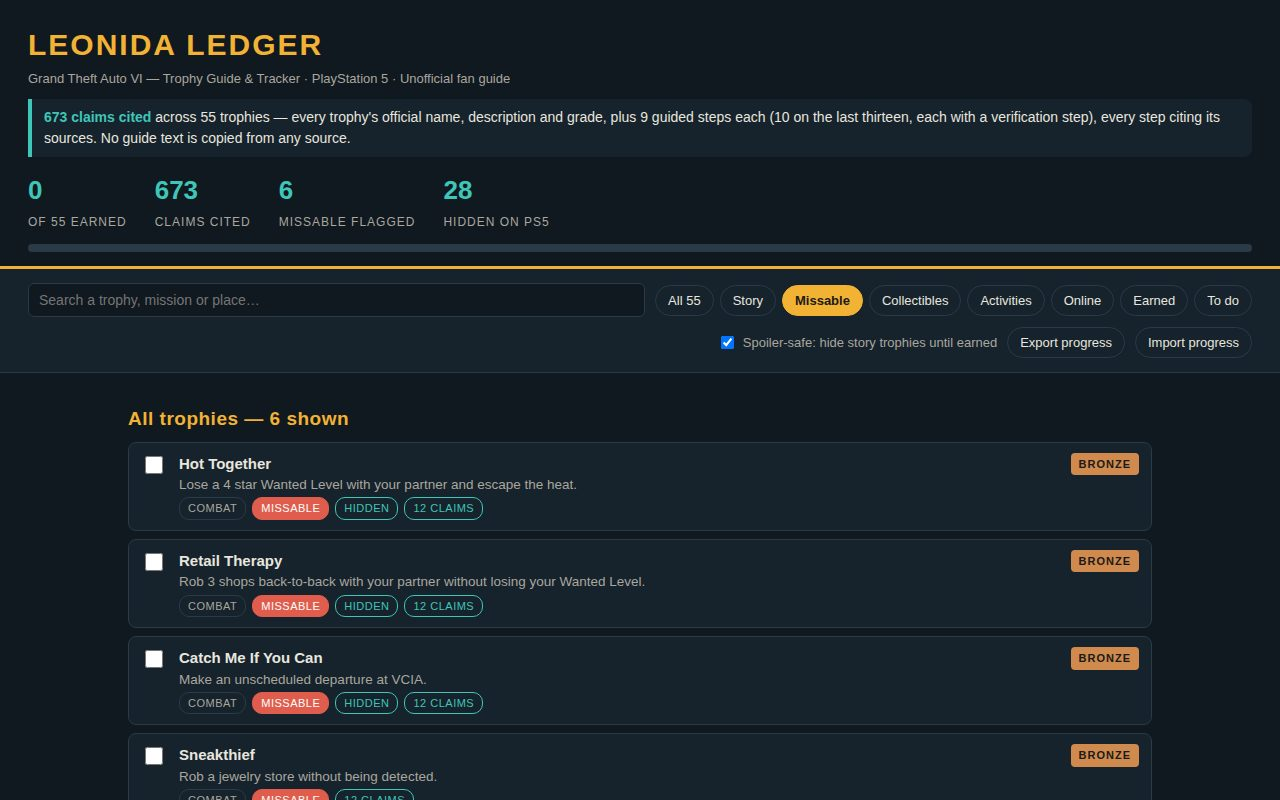
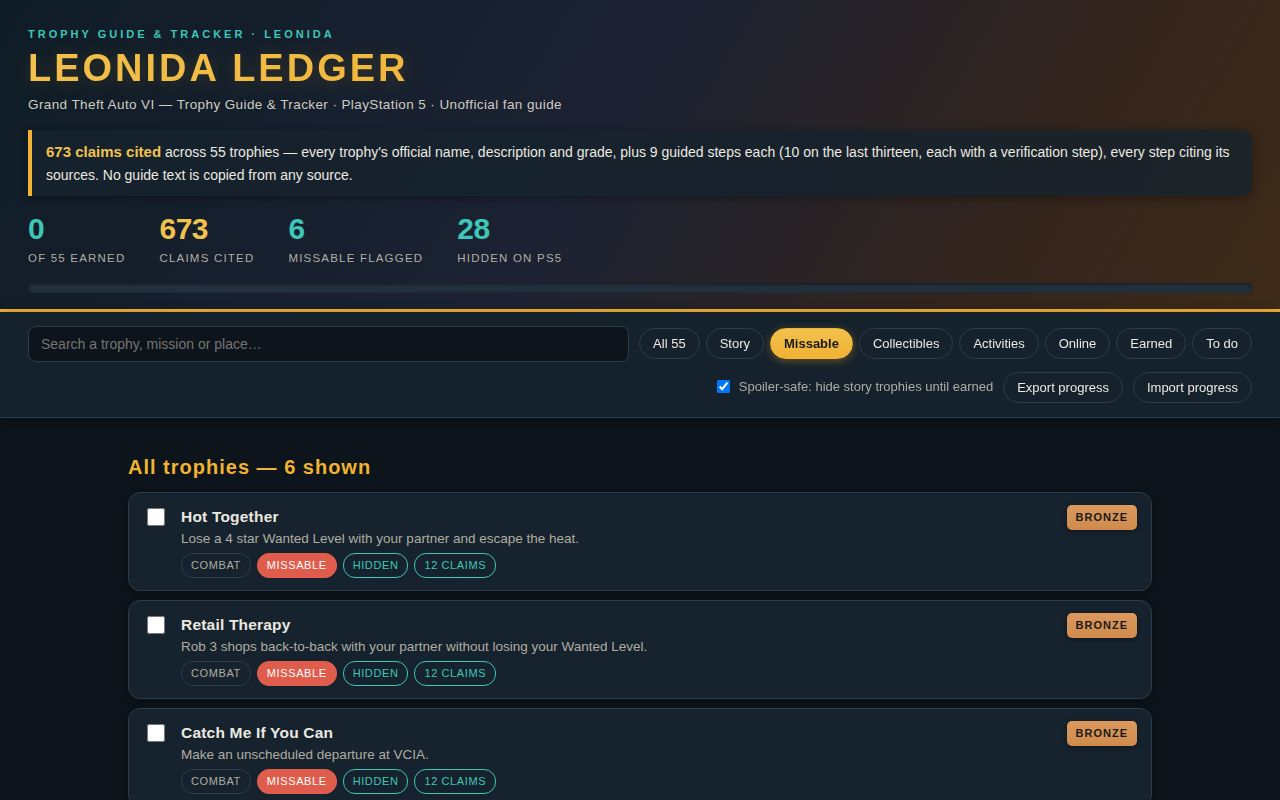
Revision 4: polished Vice City sunset design (content unchanged, 673 claims)

diff --git a/app/style.css b/app/style.css
@@ -1,16 +1,27 @@
+/* Leonida Ledger — Revision 4: polished Vice City sunset design.
+   Same content, same structure — the look only. Dark slate base, warm
+   amber/gold sunset accents, teal for claims, distinct grade colours. */
 :root {
-  --ink: #e8e6df;
-  --ink-dim: #a9a79e;
-  --paper: #101820;
-  --card: #16222c;
-  --line: #2a3a46;
+  --ink: #ece9e0;
+  --ink-dim: #b0ada2;
+  --ink-faint: #8a877e;
+  --paper: #0d141b;
+  --paper-2: #111b24;
+  --card: #16222d;
+  --card-2: #1a2836;
+  --line: #2c3d4b;
+  --line-soft: #22303d;
   --amber: #f2b234;
+  --gold: #f2c14e;
+  --rose: #e07856;
   --teal: #3ec6b8;
   --red: #e05d4d;
-  --plat: #d8d8e0;
-  --gold: #f2c14e;
-  --silver: #c9ced6;
+  --plat: #e8e8f0;
+  --plat-2: #c6c6d4;
+  --silver: #ccd1da;
   --bronze: #d08a4e;
+  --shadow: 0 2px 10px rgba(0, 0, 0, .35);
+  --shadow-lift: 0 6px 18px rgba(0, 0, 0, .45);
 }
 * { box-sizing: border-box; }
 body {
@@ -19,77 +30,136 @@ body {
   color: var(--ink);
   font-family: -apple-system, "Segoe UI", Roboto, "Helvetica Neue", Arial, sans-serif;
   font-size: 15px;
-  line-height: 1.5;
+  line-height: 1.55;
 }
-.top { padding: 22px 28px 14px; border-bottom: 3px solid var(--amber); }
-.brand h1 { margin: 0; font-size: 30px; letter-spacing: 2px; color: var(--amber); }
-.brand .sub { margin: 2px 0 0; color: var(--ink-dim); font-size: 13px; }
-.claimline { margin: 10px 0 0; font-size: 14px; color: var(--ink); background: var(--card); border-left: 4px solid var(--teal); border-radius: 0 8px 8px 0; padding: 8px 12px; }
-.claimline strong { color: var(--teal); }
-.stats { display: flex; gap: 28px; margin-top: 14px; flex-wrap: wrap; }
-.stat .num { display: block; font-size: 26px; font-weight: 700; color: var(--teal); }
-.stat .lbl { font-size: 12px; color: var(--ink-dim); text-transform: uppercase; letter-spacing: 1px; }
-.progress { height: 8px; background: var(--line); border-radius: 4px; margin-top: 12px; overflow: hidden; }
-.progress .bar { height: 100%; background: var(--amber); border-radius: 4px; transition: width .3s; }
-.controls { display: flex; flex-wrap: wrap; gap: 10px; align-items: center; padding: 14px 28px; background: var(--card); border-bottom: 1px solid var(--line); position: sticky; top: 0; z-index: 5; }
-#search { flex: 1 1 220px; padding: 8px 10px; border: 1px solid var(--line); border-radius: 6px; background: var(--paper); color: var(--ink); font-size: 14px; }
+/* Hero: dusk-to-sunset gradient — deep slate into plum and ember — with a
+   warm amber rule underneath, so the header reads as one sunset band. */
+.top {
+  padding: 26px 28px 16px;
+  background: linear-gradient(120deg, #0f1c26 0%, #1c2233 46%, #33241d 78%, #3d2a18 100%);
+  border-bottom: 3px solid var(--amber);
+  box-shadow: 0 4px 18px rgba(0, 0, 0, .4);
+}
+.eyebrow {
+  margin: 0 0 6px;
+  font-size: 11px;
+  font-weight: 700;
+  letter-spacing: 3px;
+  text-transform: uppercase;
+  color: var(--teal);
+}
+.brand h1 {
+  margin: 0;
+  font-size: 38px;
+  line-height: 1.05;
+  letter-spacing: 3px;
+  font-weight: 800;
+  background: linear-gradient(90deg, var(--gold) 0%, var(--amber) 55%, var(--rose) 100%);
+  -webkit-background-clip: text;
+  background-clip: text;
+  color: transparent;
+  text-shadow: 0 2px 18px rgba(242, 178, 52, .18);
+}
+.brand .sub { margin: 6px 0 0; color: #cfccc2; font-size: 13.5px; letter-spacing: .4px; }
+.claimline {
+  margin: 14px 0 0;
+  font-size: 14px;
+  line-height: 1.6;
+  color: var(--ink);
+  background: rgba(22, 34, 45, .82);
+  border-left: 4px solid var(--amber);
+  border-radius: 0 10px 10px 0;
+  padding: 10px 14px;
+  box-shadow: var(--shadow);
+}
+.claimline strong { color: var(--gold); font-size: 15px; }
+.stats { display: flex; gap: 34px; margin-top: 16px; flex-wrap: wrap; }
+.stat .num { display: block; font-size: 30px; font-weight: 800; line-height: 1.1; color: var(--teal); letter-spacing: -.5px; }
+.stat .num.claims { color: var(--gold); }
+.stat .lbl { font-size: 11.5px; color: var(--ink-dim); text-transform: uppercase; letter-spacing: 1.2px; }
+.progress { height: 10px; background: #22303d; border-radius: 6px; margin-top: 14px; overflow: hidden; box-shadow: inset 0 1px 3px rgba(0, 0, 0, .5); }
+.progress .bar { height: 100%; background: linear-gradient(90deg, var(--amber), var(--gold)); border-radius: 6px; transition: width .3s; box-shadow: 0 0 10px rgba(242, 178, 52, .45); }
+.controls { display: flex; flex-wrap: wrap; gap: 10px; align-items: center; padding: 14px 28px; background: rgba(22, 34, 45, .96); border-bottom: 1px solid var(--line); position: sticky; top: 0; z-index: 5; box-shadow: 0 2px 12px rgba(0, 0, 0, .3); }
+#search { flex: 1 1 220px; padding: 9px 12px; border: 1px solid var(--line); border-radius: 8px; background: var(--paper); color: var(--ink); font-size: 14px; outline: none; }
+#search:focus { border-color: var(--amber); box-shadow: 0 0 0 3px rgba(242, 178, 52, .22); }
 .filters { display: flex; gap: 6px; flex-wrap: wrap; }
 .filters button, .tools button {
-  padding: 7px 12px; border: 1px solid var(--line); border-radius: 20px;
+  padding: 7px 13px; border: 1px solid var(--line); border-radius: 20px;
   background: transparent; color: var(--ink); font-size: 13px; cursor: pointer;
+  transition: border-color .15s, background .15s, box-shadow .15s, transform .15s;
 }
-.filters button.on { background: var(--amber); color: #1a1a1a; border-color: var(--amber); font-weight: 700; }
+.filters button:hover, .tools button:hover { border-color: var(--amber); }
+.filters button.on {
+  background: linear-gradient(180deg, var(--gold), var(--amber));
+  color: #1a1a1a; border-color: var(--amber); font-weight: 700;
+  box-shadow: 0 2px 8px rgba(242, 178, 52, .35);
+}
 .tools { display: flex; gap: 10px; align-items: center; flex-wrap: wrap; margin-left: auto; }
 .toggle { font-size: 13px; color: var(--ink-dim); display: flex; gap: 6px; align-items: center; cursor: pointer; }
 main { max-width: 1080px; margin: 0 auto; padding: 10px 28px 30px; }
-h2 { font-size: 19px; margin: 22px 0 6px; color: var(--amber); letter-spacing: .5px; }
+h2 { font-size: 20px; margin: 24px 0 6px; color: var(--amber); letter-spacing: 1px; font-weight: 800; }
 .roadmap, .listwrap, .sources, .missable { scroll-margin-top: 90px; }
 /* Deep-link view: #roadmap shows the roadmap on its own, so the shot never
    depends on a scroll landing right. */
 body.focus-roadmap .listwrap, body.focus-roadmap .detail { display: none; }
-.note { color: var(--ink-dim); font-size: 13px; margin: 4px 0 10px; }
-.stages { list-style: none; padding: 0; margin: 0; display: grid; grid-template-columns: repeat(auto-fit, minmax(240px, 1fr)); gap: 10px; }
-.stages li { background: var(--card); border: 1px solid var(--line); border-left: 4px solid var(--teal); border-radius: 8px; padding: 10px 12px; }
-.stages li b { display: block; font-size: 14px; }
-.stages li span { font-size: 12.5px; color: var(--ink-dim); }
-.detail { background: #1d2c38; border: 1px solid var(--amber); border-radius: 10px; padding: 18px 20px; margin: 18px 0 4px; position: relative; scroll-margin-top: 90px; }
-.detail h3 { margin: 0 0 2px; font-size: 20px; }
-.detail .official { color: var(--ink-dim); font-size: 13.5px; margin: 0 0 10px; }
-.detail .claims { font-size: 13.5px; color: var(--teal); margin: 0 0 6px; }
-.detail .misswarn { background: #3a1d1a; border: 1px solid var(--red); border-radius: 8px; padding: 8px 12px; font-size: 13.5px; font-weight: 700; margin: 8px 0; }
-.detail .guide { font-size: 15px; margin: 8px 0; }
-.detail ol { margin: 8px 0; padding-left: 20px; }
-.detail ol li { margin: 4px 0; }
-.detail .srcs { font-size: 12.5px; color: var(--teal); margin: 10px 0 0; }
+.note { color: var(--ink-dim); font-size: 13px; margin: 4px 0 10px; line-height: 1.6; }
+.stages { list-style: none; padding: 0; margin: 0; display: grid; grid-template-columns: repeat(auto-fit, minmax(240px, 1fr)); gap: 12px; }
+.stages li { background: var(--card); border: 1px solid var(--line); border-left: 4px solid var(--teal); border-radius: 10px; padding: 12px 14px; box-shadow: var(--shadow); transition: transform .15s, border-color .15s; }
+.stages li:hover { transform: translateY(-1px); border-color: var(--teal); }
+.stages li b { display: block; font-size: 14.5px; margin-bottom: 2px; }
+.stages li span { font-size: 12.5px; color: var(--ink-dim); line-height: 1.5; }
+.detail { background: linear-gradient(180deg, #1e2d3b, #1a2836); border: 1px solid var(--amber); border-radius: 12px; padding: 20px 22px; margin: 18px 0 4px; position: relative; scroll-margin-top: 90px; box-shadow: var(--shadow-lift); }
+.detail h3 { margin: 0 0 3px; font-size: 21px; letter-spacing: .3px; }
+.detail .official { color: var(--ink-dim); font-size: 13.5px; margin: 0 0 10px; line-height: 1.55; }
+.detail .claims { font-size: 13.5px; color: var(--teal); margin: 0 0 8px; font-weight: 700; }
+.detail .misswarn { background: #3a1d1a; border: 1px solid var(--red); border-radius: 8px; padding: 9px 12px; font-size: 13.5px; font-weight: 700; margin: 10px 0; }
+.detail .guide { font-size: 15px; margin: 10px 0; line-height: 1.65; }
+/* Numbered steps: amber circled counters, generous spacing. */
+.detail ol { margin: 10px 0; padding-left: 0; list-style: none; counter-reset: step; }
+.detail ol li { counter-increment: step; margin: 8px 0; padding-left: 36px; position: relative; line-height: 1.6; }
+.detail ol li::before {
+  content: counter(step);
+  position: absolute; left: 0; top: 1px;
+  width: 24px; height: 24px; border-radius: 50%;
+  background: linear-gradient(180deg, var(--gold), var(--amber));
+  color: #1a1a1a; font-size: 12.5px; font-weight: 800;
+  display: flex; align-items: center; justify-content: center;
+  box-shadow: 0 1px 5px rgba(242, 178, 52, .4);
+}
+.detail .srcs { font-size: 12.5px; color: var(--teal); margin: 12px 0 0; line-height: 1.6; }
 #detailClose { position: absolute; top: 8px; right: 12px; background: none; border: none; color: var(--ink-dim); font-size: 22px; cursor: pointer; }
 .list { list-style: none; padding: 0; margin: 0; }
 .list li {
   display: grid; grid-template-columns: 26px 1fr auto; gap: 4px 12px;
-  background: var(--card); border: 1px solid var(--line); border-radius: 8px;
-  padding: 10px 12px; margin: 8px 0; cursor: pointer;
+  background: var(--card); border: 1px solid var(--line); border-radius: 12px;
+  padding: 12px 14px; margin: 9px 0; cursor: pointer;
+  box-shadow: var(--shadow);
+  transition: transform .15s, border-color .15s, box-shadow .15s;
 }
-.list li:hover { border-color: var(--amber); }
+.list li:hover { border-color: var(--amber); transform: translateY(-1px); box-shadow: var(--shadow-lift); }
 .list li.done { opacity: .62; }
 .list li.done .tname { text-decoration: line-through; }
 .list input { width: 18px; height: 18px; margin-top: 3px; accent-color: var(--amber); }
-.tname { font-weight: 700; font-size: 15px; }
-.tdesc { color: var(--ink-dim); font-size: 13.5px; grid-column: 2; }
-.tags { grid-column: 2; display: flex; gap: 6px; flex-wrap: wrap; margin-top: 2px; }
-.tag { font-size: 11px; padding: 2px 8px; border-radius: 10px; border: 1px solid var(--line); color: var(--ink-dim); text-transform: uppercase; letter-spacing: .5px; }
+.tname { font-weight: 700; font-size: 15.5px; letter-spacing: .2px; }
+.tdesc { color: var(--ink-dim); font-size: 13.5px; grid-column: 2; line-height: 1.5; }
+.tags { grid-column: 2; display: flex; gap: 6px; flex-wrap: wrap; margin-top: 4px; }
+.tag { font-size: 11px; padding: 3px 9px; border-radius: 12px; border: 1px solid var(--line); color: var(--ink-dim); text-transform: uppercase; letter-spacing: .6px; }
 .tag.miss { color: #fff; background: var(--red); border-color: var(--red); }
 .tag.hidden { color: var(--teal); border-color: var(--teal); }
-.tag.count { color: var(--amber); border-color: var(--amber); }
+.tag.count { color: var(--gold); border-color: var(--amber); }
 .tag.claims { color: var(--teal); border-color: var(--teal); }
-.grade { font-size: 11px; font-weight: 700; text-transform: uppercase; letter-spacing: 1px; padding: 3px 8px; border-radius: 4px; height: fit-content; }
-.grade.platinum { background: var(--plat); color: #1a1a1a; }
-.grade.gold { background: var(--gold); color: #1a1a1a; }
-.grade.silver { background: var(--silver); color: #1a1a1a; }
-.grade.bronze { background: var(--bronze); color: #1a1a1a; }
-.missable { background: var(--card); border: 1px solid var(--red); border-radius: 10px; padding: 16px 20px; margin-top: 26px; }
+/* Grade badges: each grade reads at a glance — platinum shines, gold glows,
+   silver stays cool, bronze stays warm. */
+.grade { font-size: 11px; font-weight: 800; text-transform: uppercase; letter-spacing: 1px; padding: 4px 9px; border-radius: 5px; height: fit-content; box-shadow: 0 1px 4px rgba(0, 0, 0, .4); }
+.grade.platinum { background: linear-gradient(180deg, var(--plat), var(--plat-2)); color: #1a1a1a; }
+.grade.gold { background: linear-gradient(180deg, #f7d06e, var(--gold)); color: #1a1a1a; }
+.grade.silver { background: linear-gradient(180deg, #dde1e8, var(--silver)); color: #1a1a1a; }
+.grade.bronze { background: linear-gradient(180deg, #dd9a5e, var(--bronze)); color: #1a1a1a; }
+.missable { background: var(--card); border: 1px solid var(--red); border-radius: 12px; padding: 18px 22px; margin-top: 28px; box-shadow: var(--shadow); }
 .misslist { margin: 8px 0; padding-left: 20px; }
-.misslist li { margin: 5px 0; font-size: 14px; }
-.sources { background: var(--card); border: 1px solid var(--line); border-radius: 10px; padding: 16px 20px; margin-top: 26px; }
+.misslist li { margin: 6px 0; font-size: 14px; line-height: 1.6; }
+.sources { background: var(--card); border: 1px solid var(--line); border-radius: 12px; padding: 18px 22px; margin-top: 28px; box-shadow: var(--shadow); }
 .sources ul { margin: 8px 0; padding-left: 20px; }
-.sources li { margin: 5px 0; font-size: 14px; }
+.sources li { margin: 6px 0; font-size: 14px; line-height: 1.6; }
 .empty { color: var(--ink-dim); font-style: italic; }
-footer { max-width: 1080px; margin: 0 auto; padding: 0 28px 26px; color: var(--ink-dim); font-size: 12px; }
+footer { max-width: 1080px; margin: 0 auto; padding: 0 28px 26px; color: var(--ink-faint); font-size: 12px; line-height: 1.6; }

diff --git a/main.ts b/main.ts
@@ -1,7 +1,9 @@
 // Leonida Ledger — entry program for gta6-trophy-guide-01 (Node 22, stdlib only).
 //
-// Revision 3: the guide now cites 673 claims (9 guided steps per trophy,
-// 10 on the last thirteen, each with a verification step).
+// Revision 4: content identical to Revision 3 (673 claims, 9 steps per
+// trophy) — this revision polishes the LOOK only: a Vice City sunset hero,
+// stronger type hierarchy, refined cards, distinct grade badges and
+// circled step numbers. No trophy, step, count or source was touched.
 // This program guards that depth before anything is copied: every trophy
 // must carry a name, a guide, at least 9 steps, named sources and a
 // roadmap stage, and the total cited claims must reach 673. The dossier
@@ -22,7 +24,10 @@
 //
 // Run it outside the grader with MAKEFUN_OUTPUT_DIR standing in for
 // /output, e.g. `mkdir -p out && MAKEFUN_OUTPUT_DIR=out node main.ts`.
-// It is deterministic: two runs write the same bytes.
+// It is deterministic: two runs write the same bytes. Revision 4 changed
+// only the visual design (style.css and the hero markup in index.html);
+// the dossier bytes move only because the CSS and markup moved, never
+// because a claim, step or source changed.
 
 import { cpSync, existsSync, mkdirSync, readFileSync, readdirSync, writeFileSync } from 'node:fs';
 import { join } from 'node:path';

diff --git a/app/index.html b/app/index.html
@@ -9,13 +9,14 @@
 <body>
 <header class="top">
   <div class="brand">
+    <p class="eyebrow">Trophy Guide &amp; Tracker · Leonida</p>
     <h1>LEONIDA LEDGER</h1>
     <p class="sub">Grand Theft Auto VI — Trophy Guide &amp; Tracker · PlayStation 5 · Unofficial fan guide</p>
     <p class="claimline"><strong>673 claims cited</strong> across 55 trophies — every trophy's official name, description and grade, plus 9 guided steps each (10 on the last thirteen, each with a verification step), every step citing its sources. No guide text is copied from any source.</p>
   </div>
   <div class="stats" id="stats">
     <div class="stat"><span class="num" id="statEarned">0</span><span class="lbl">of 55 earned</span></div>
-    <div class="stat"><span class="num" id="statClaims">673</span><span class="lbl">claims cited</span></div>
+    <div class="stat"><span class="num claims" id="statClaims">673</span><span class="lbl">claims cited</span></div>
     <div class="stat"><span class="num" id="statMiss">6</span><span class="lbl">missable flagged</span></div>
     <div class="stat"><span class="num" id="statHidden">28</span><span class="lbl">hidden on PS5</span></div>
   </div>
